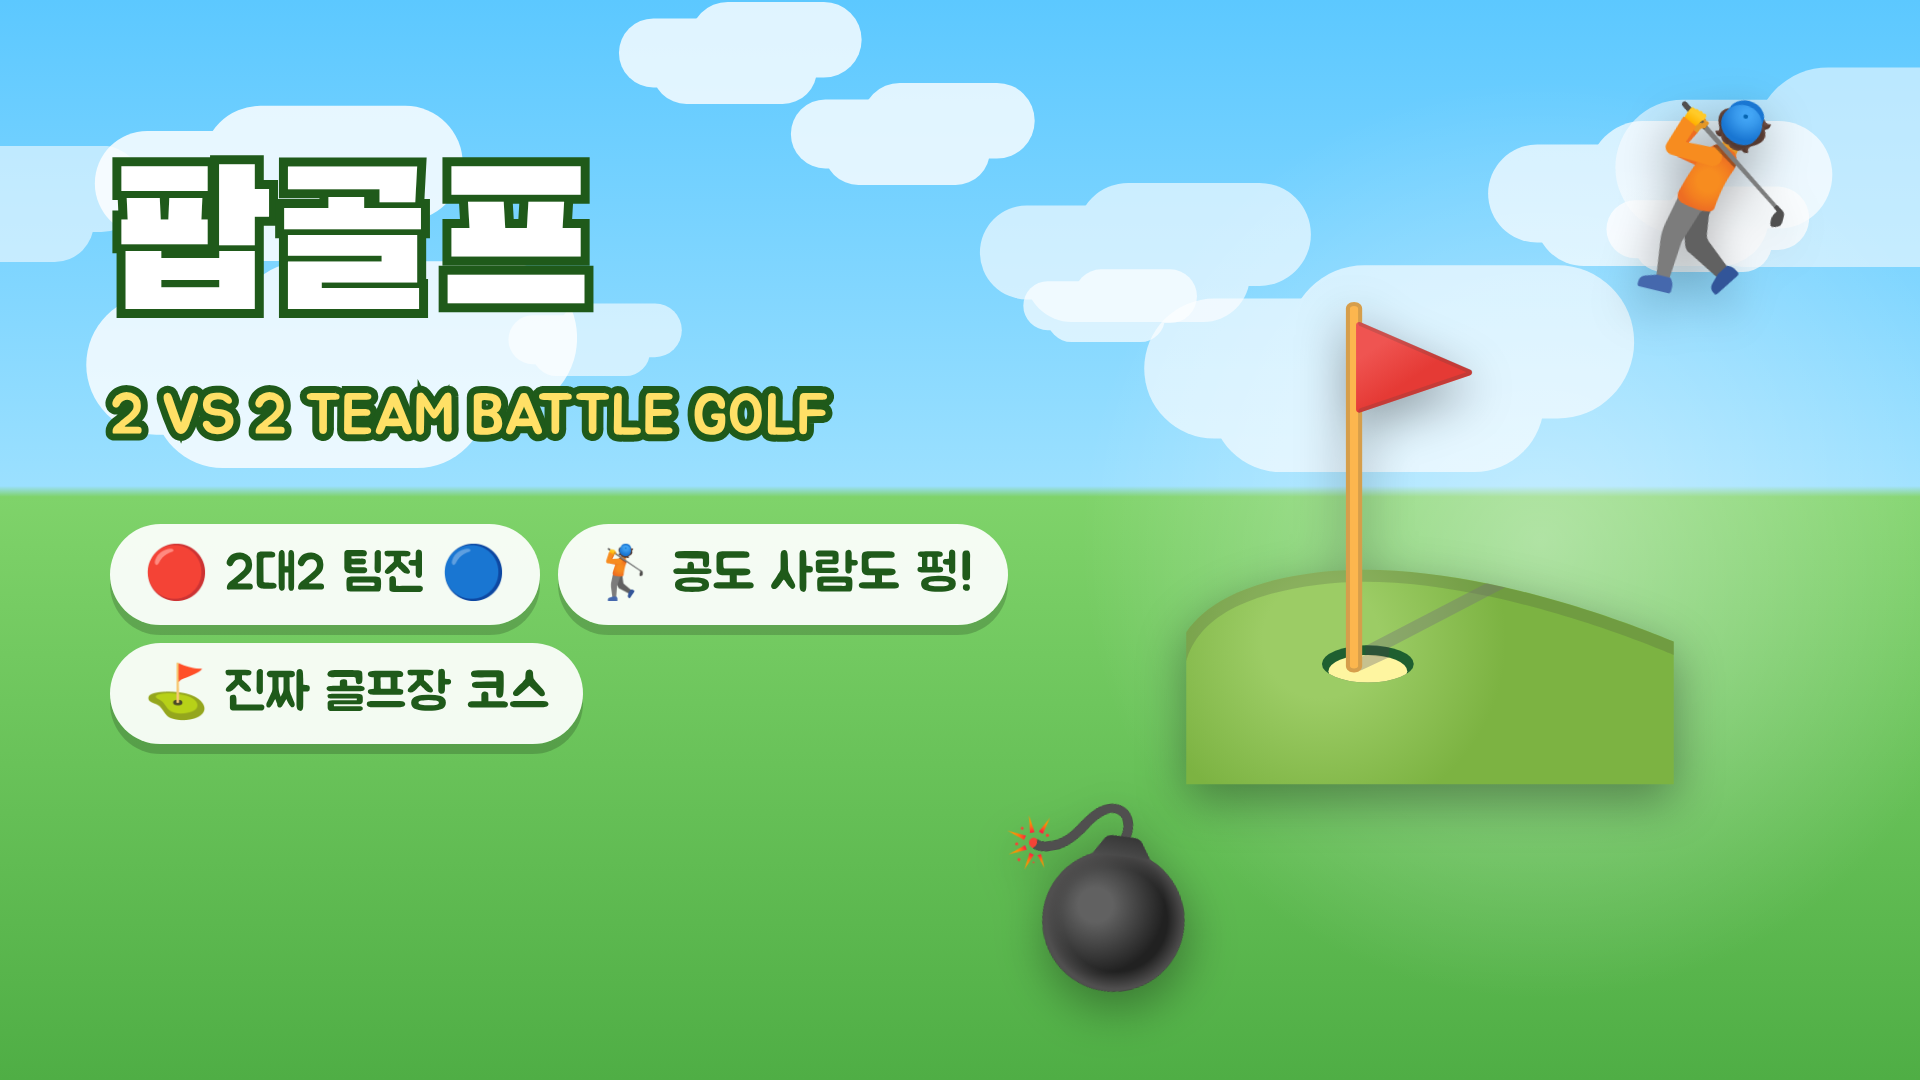
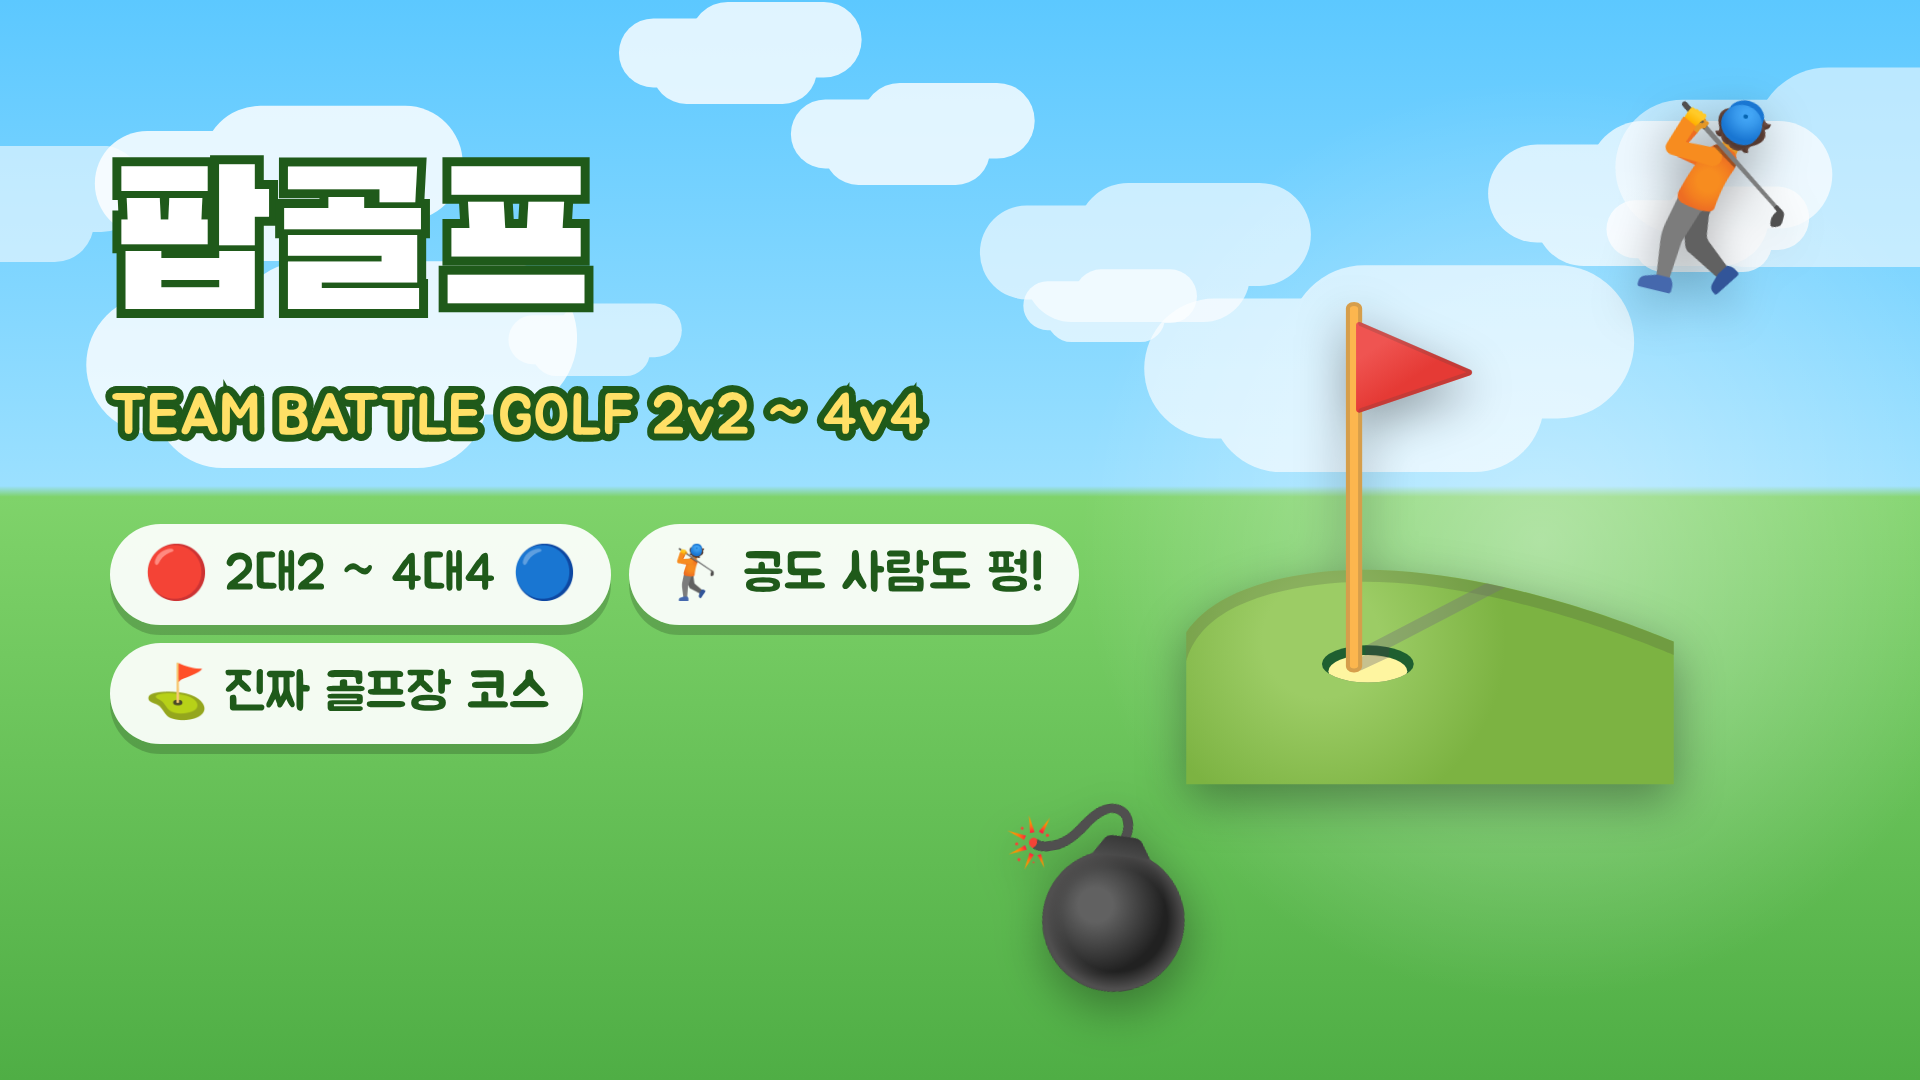
팝골프: 인원에 따라 2대2·3대3·4대4 자동 지원
- 최대 8명, 한 팀 최대 4명. 인원을 섞어 두 팀으로 자동 배정
- 팀 인원에 맞춰 페어웨이 폭·아이템 상자 수·출발 간격 조절
- 경기 모드 안내(예: 3대3)와 점수판 표시, 문서·설명·썸네일 갱신

Claude-Session: https://claude.ai/code/session_015cBKWYuWxgfVK4W3YHBKn8

Changed region(s): [[0.0312, 0.3361, 0.5, 0.4278], [0.1562, 0.4583, 0.5625, 0.6111]]

diff --git a/roblox-popgolf/STORE_DESCRIPTION.md b/roblox-popgolf/STORE_DESCRIPTION.md
@@ -6,11 +6,11 @@
 
 ## 🇰🇷 한국어
 
-**이름:** ⛳ 팝골프 [2대2 팀 배틀 골프]
+**이름:** ⛳ 팝골프 [팀 배틀 골프 2v2~4v4]
 
 **설명:**
 ```
-⛳ 휘두르면 펑! 공도 사람도 날아가는 2대2 팀 배틀 골프!
+⛳ 휘두르면 펑! 공도 사람도 날아가는 팀 배틀 골프! (2대2 · 3대3 · 4대4)
 
 🔴 레드 팀 vs 🔵 블루 팀, 팀마다 공은 딱 하나!
 타수는 세지 않아요. 우리 공을 먼저 홀컵에 넣는 팀이 이겨요.
@@ -30,17 +30,17 @@
 🎨 골프채 꾸미기 21종: 빛 입자, 회전 고리, 무지개 연출
 (뽑기 확률은 게임 안에 공개, 꾸미기만 바뀌고 실력에는 영향 없음)
 
-👫 친구와 팀을 짜서 뒤엉켜 보세요!
+👫 친구 8명까지 함께 뒤엉켜 보세요!
 👍 재밌었다면 좋아요와 즐겨찾기 부탁해요!
 ```
 
 ## 🇺🇸 English
 
-**Name:** ⛳ Pop Golf [2v2 Team Battle Golf]
+**Name:** ⛳ Pop Golf [Team Battle Golf 2v2~4v4]
 
 **Description:**
 ```
-⛳ Swing and POP! Balls AND players go flying in this 2v2 team battle golf!
+⛳ Swing and POP! Balls AND players go flying in this team battle golf! (2v2 · 3v3 · 4v4)
 
 🔴 Red Team vs 🔵 Blue Team, one ball per team!
 No stroke counting. First team to sink their own ball wins the hole.
@@ -60,10 +60,10 @@ No stroke counting. First team to sink their own ball wins the hole.
 🎨 21 club skins with glowing particles, spinning rings and rainbow effects
 (Capsule odds are shown in-game. Skins are cosmetic only.)
 
-👫 Team up with friends and get chaotic!
+👫 Up to 8 friends — get chaotic!
 👍 Like and favorite if you had fun!
 ```
 
 ## 짧은 소개 문구 (광고·SNS용)
-- 🇰🇷 휘두르면 펑! 공도 사람도 날아가는 2대2 골프 대난투 ⛳
-- 🇺🇸 Swing and POP! 2v2 golf chaos where balls and players fly ⛳
+- 🇰🇷 휘두르면 펑! 공도 사람도 날아가는 최대 4대4 골프 대난투 ⛳
+- 🇺🇸 Swing and POP! Up to 4v4 golf chaos where balls and players fly ⛳

diff --git a/roblox-popgolf/README.md b/roblox-popgolf/README.md
@@ -27,13 +27,14 @@ Rojo 를 쓰면 이 폴더에서 `rojo serve` → Studio 플러그인에서 Conn
 
 ## 출시 전 체크리스트
 0. **게임 설정 → 아바타 → 아바타 유형 R15** (스윙 모션이 R15 팔·허리 관절을 움직임)
-1. 게임 설정 → 장소(Places) → **최대 플레이어 수 4** (2대2 한 판. 관전 자리를 두려면 6)
+1. 게임 설정 → 장소(Places) → **최대 플레이어 수 8** (4대4까지. 관전 자리를 두려면 10)
 2. 게임패스 2개, 개발자 상품 4개 만들고 ID 를 `Config.luau` 의 `id = 0` 자리에 입력
 3. 성숙도 질문지: **폭력 "가벼움·비현실적"**, **유료 확률형 아이템 "예"** (GAME_DESIGN.md 6장)
 4. 아이콘·썸네일·상품 이미지는 `images/` 폴더
 
 ## 테스트 팁
-- 혼자서도 연습 경기가 시작돼요 (`Config.MinPlayers = 1`). 팀전·휘두르기·아이템은 **테스트 탭 → 클라이언트 및 서버 → 플레이어 4명**으로 확인
+- 혼자서도 연습 경기가 시작돼요 (`Config.MinPlayers = 1`). 팀전은 **테스트 탭 → 클라이언트 및 서버 → 플레이어 4명(2대2) / 6명(3대3) / 8명(4대4)** 으로 확인
+- 팀 최대 인원은 `Config.MaxTeamSize`, 인원별 코스 폭·아이템 수는 `Config.Course.widthPerExtraPlayer`, `boxesPerExtraPlayer`
 - 골프채 위치가 어색하면 `Club.luau` 맨 위 `PIVOT`(관절 위치)·`SHAFT_OFFSET`, 스윙 크기·속도는 `SwingAnimator.luau` 맨 위 숫자(ADDRESS_TILT, BACK_MAX, FOLLOW, SWING_TIME, WAIST_TWIST)를 조절하세요. 공이 발에서 너무 멀거나 가까우면 `Config.Club.stanceOffset`
 - 공이 너무 멀리/가까이 가면 `Config.Ball.maxSpeed`, 너무 높이/낮게 뜨면 `launchAngle`
 - 프리미엄 캡슐 테스트: 상품 ID 를 넣고 Studio 에서 젬 상품을 '테스트 구매'(실제 로벅스 차감 없음)

diff --git a/roblox-popgolf/GAME_DESIGN.md b/roblox-popgolf/GAME_DESIGN.md
@@ -16,7 +16,7 @@
 ## 4. 규칙
 | 항목 | 내용 |
 |---|---|
-| 팀 | 🔴 레드 vs 🔵 블루, 무작위 배정 (4명 2대2, 3명 2대1, 2명 1대1, 1명 연습) |
+| 팀 | 🔴 레드 vs 🔵 블루, 무작위 배정. 인원에 맞춰 자동: 4명 2대2 · 6명 3대3 · 8명 4대4 (홀수면 한 명 차이, 1명은 연습). 인원이 많을수록 페어웨이 폭 +6/명, 아이템 상자 +2/명 |
 | 공 | 팀마다 하나 (팀 색깔). **타수 없음** |
 | 휘두르기 (유일한 공격 버튼) | 꾹 누르면 골프채가 뒤로 올라가며 힘이 모이고(게이지 0→100→0 왕복), 떼면 휘두름. 몸 앞 6.5스터드 안의 **모든 공(우리 공·상대 공)** 은 카메라 방향으로 날아가고, **상대 선수**는 날아가 1.6초 넘어짐 |
 | 공의 비행 | 페어웨이·러프에서는 36° 로 높이 떠서 포물선 비행, 그린 위에서는 4° 로 굴리는 퍼팅(세기 38%) |
